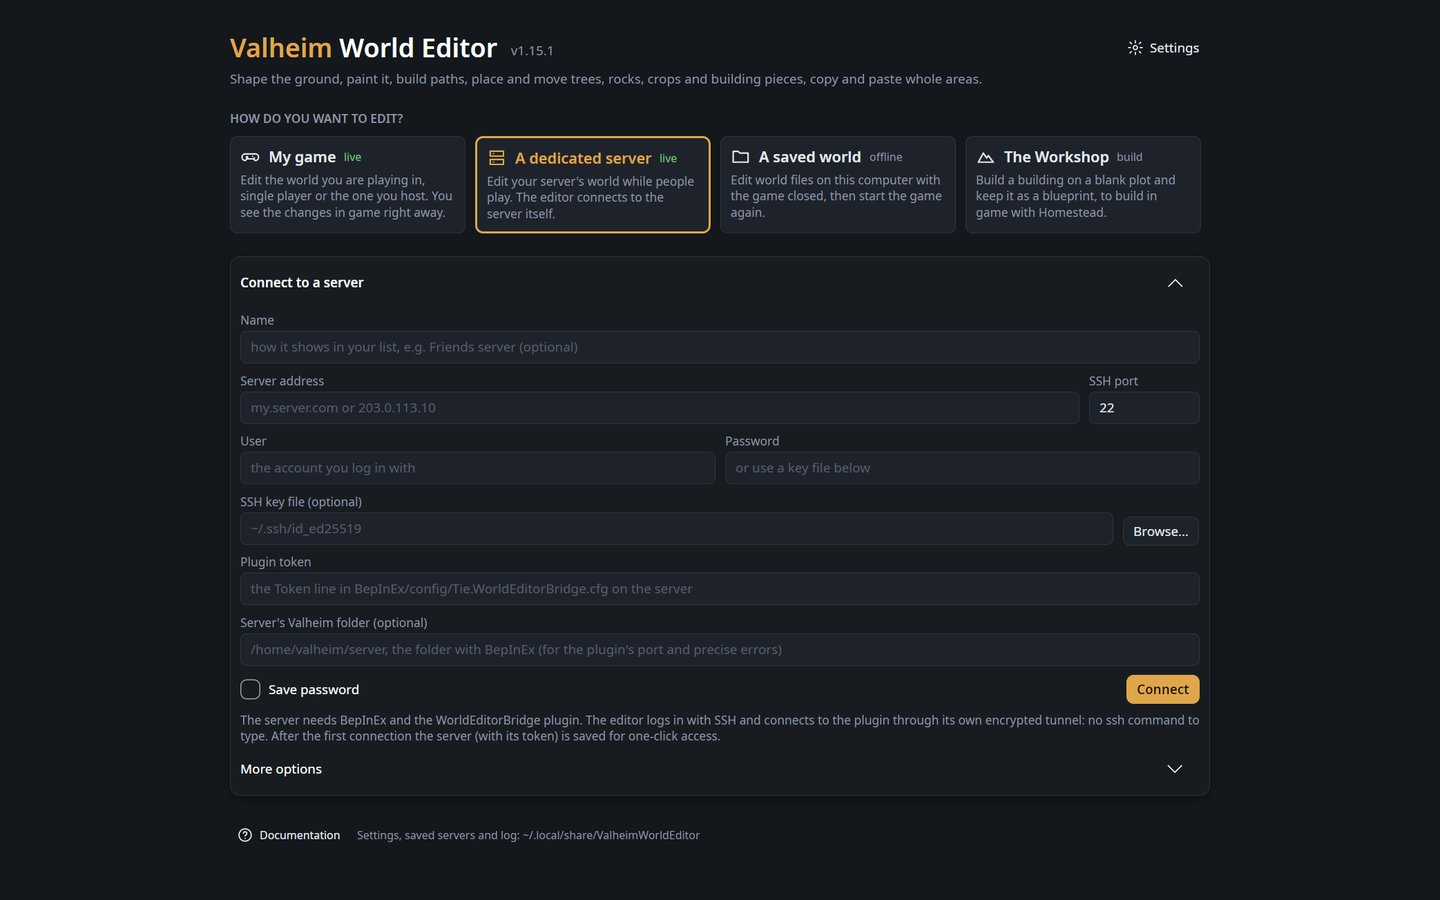
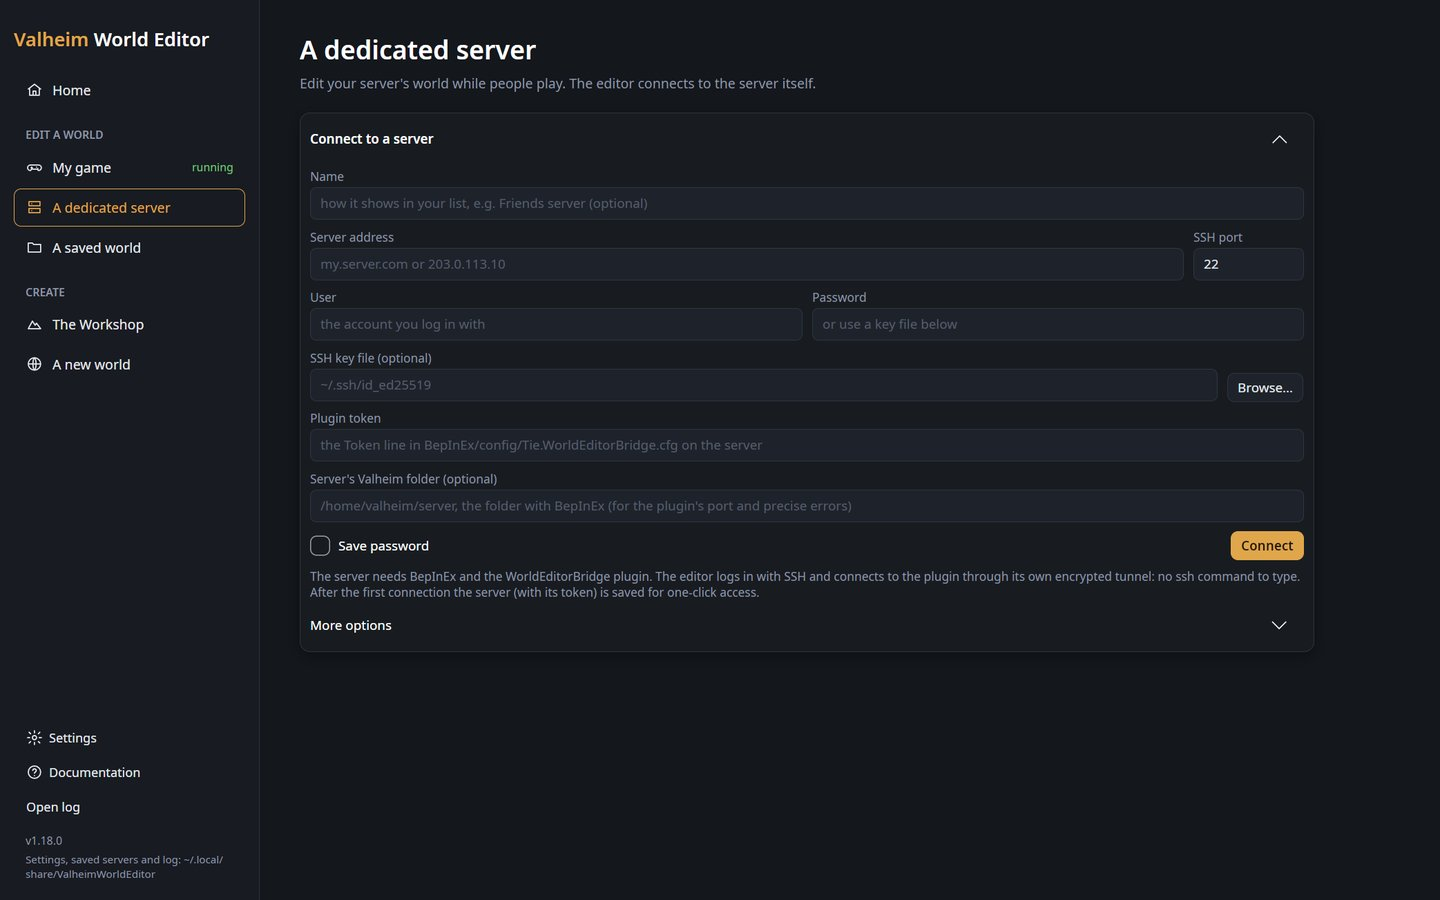
Describe the new start page in the README and docs
The side menu, Home and the Create pages are explained where players start reading, with new
pictures; the screenshot script now shows Home with recent worlds.

diff --git a/tools/docs-screenshots/editor.py b/tools/docs-screenshots/editor.py
@@ -7,6 +7,7 @@ are discarded before the next one.
 """
 import json
 import os
+from datetime import datetime, timedelta
 import shutil
 import subprocess
 import tempfile
@@ -65,7 +66,7 @@ def real_bundles():
 
 
 class Editor:
-    def __init__(self, app=None, width=1440, height=900, game_world=None, worlds=(), homestead=None):
+    def __init__(self, app=None, width=1440, height=900, game_world=None, worlds=(), homestead=None, recent=()):
         self.home = Path(tempfile.mkdtemp(prefix="vwe-docs-home-"))
         self.game = None
         # The stand-in home's own data folder (~/.local/share/ValheimWorldEditor): the start page
@@ -91,6 +92,11 @@ class Editor:
         for w in worlds:
             local.mkdir(parents=True, exist_ok=True)
             (local / Path(w).name).symlink_to(Path(w).resolve())
+        if recent:
+            # Worlds opened before (the start page's Home), the first a few hours ago, then a day apart.
+            now = datetime.now()
+            opened = [{"Path": str(local / Path(w).name), "Name": Path(w).name, "Opened": (now - timedelta(hours=3, days=i)).isoformat()} for i, w in enumerate(recent)]
+            (data / "ValheimWorldEditor" / "settings.json").write_text(json.dumps({"Recent": opened}))
         if game_world:
             # The plugin in an r2modman profile, as on many players' computers.
             self.game = FakeGame(game_world)

diff --git a/tools/docs-screenshots/scenes.py b/tools/docs-screenshots/scenes.py
@@ -564,8 +564,11 @@ def scene_map(e):
 # ---- The start page and its settings (no world opened).
 
 def scene_start(e):
-    e.send("click My game")
+    # Home: the running game (the stand-in plugin) and the worlds opened before.
     e.send("wait 3000")
+    e.shot(OUT / "start-home.jpg")
+    e.send("click My game")
+    e.send("wait 1500")
     e.shot(OUT / "start-game.jpg")
     e.send("click A dedicated server")
     e.shot(OUT / "start-server.jpg")
@@ -593,7 +596,7 @@ def main():
         # Each scene in a fresh editor: nothing carries over, nothing is saved.
         start = name == "start"
         with Editor(game_world="Docs" if start else None, worlds=(f"{DIR}/Docs", f"{DIR}/Fjordheim") if start else (),
-                    homestead=os.environ.get("HOMESTEAD_DLL")) as e:
+                    homestead=os.environ.get("HOMESTEAD_DLL"), recent=(f"{DIR}/Fjordheim", f"{DIR}/Docs") if start else ()) as e:
             try:
                 SCENES[name](e)
             except Exception as ex:

diff --git a/README.md b/README.md
@@ -61,9 +61,24 @@ for Windows or Linux. Unpack it and start it. You don't need to install anything
 - **Undo anything.** The history panel goes back to any point, or takes out one change only. It is
   kept with the world after each save, so you can still undo after closing the editor.
 
-## Three ways to edit
+## The start page
 
-All three start from the editor's start page, under **Edit a world** in its side menu.
+The editor opens on its start page. Its side menu has three parts:
+
+- **Home** picks up where you left off: when Valheim is running with the plugin, a card to
+  **Edit live** its world; then the saved worlds and blueprints you opened last (blueprints with
+  their pictures), and the servers that connect in one click. Click one to open it.
+- **Edit a world**: the three ways to edit, below.
+- **Create**: **The Workshop**, a blank plot to build on and keep as a blueprint, needing no world
+  at all ([docs/workshop.md](docs/workshop.md)); and **A new world**, to choose a seed by what is
+  near its start and make the world ([docs/new-world.md](docs/new-world.md)).
+
+At the bottom of the menu: **Settings**, **Documentation**, **Open log** and the folder of the
+editor's settings and log.
+
+![The start page's Home: the game running, and the worlds opened last](docs/images/start-home.jpg)
+
+## Three ways to edit
 
 | | What it edits | What you need |
 |---|---|---|
@@ -71,12 +86,7 @@ All three start from the editor's start page, under **Edit a world** in its side
 | **A dedicated server** (live) | Your server's world, while people play. The editor logs in over SSH and opens its own encrypted tunnel. | BepInEx and the plugin on the server, and an SSH login to it. |
 | **A saved world** (offline) | World files on this computer, with the game closed. | Nothing. |
 
-Under **Create**, **The Workshop** needs no world at all, and **A new world** makes a new world and
-helps you choose its seed ([docs/new-world.md](docs/new-world.md)). The start page opens on **Home**:
-the game when it runs (to edit it live), the worlds and blueprints you opened last, and the servers
-that connect in one click.
-
-![The start page](docs/images/start-workshop.jpg)
+![The Workshop, under Create on the start page](docs/images/start-workshop.jpg)
 
 One program runs on Windows and Linux, and everything happens on your computer. Nothing is sent
 anywhere else.
@@ -86,8 +96,8 @@ anywhere else.
 1. Download `ValheimWorldEditor-<version>-win-x64.zip` (Windows) or `-linux-x64.tar.gz` (Linux) from
    the [releases page](https://github.com/Shuiei/valheim-world-editor/releases/latest).
 2. Unpack it anywhere and double-click **ValheimWorldEditor**.
-3. Pick a way to edit on the start page. To try it safely, open **A saved world** with the game
-   closed, or **The Workshop**.
+3. Pick a way to edit in the start page's side menu. To try it safely, open **A saved world** with
+   the game closed, or **The Workshop**. Next time, **Home** lists what you opened.
 
 The sections below cover each step in more detail.
 
@@ -117,10 +127,8 @@ Windows it falls back to Direct3D when the driver has no OpenGL).
    editing, the WorldEditorBridge plugin is a separate download: `WorldEditorBridge-<version>.zip`
    on the same page, or from a mod manager (below).
 3. Double-click **ValheimWorldEditor** (`ValheimWorldEditor.exe` on Windows). It opens in its own
-   window, on the start page. (Windows may say "Windows protected your PC" the first time: the
-   program is not signed. Click "More info", then "Run anyway".)
-
-![The start page](docs/images/start-game.jpg)
+   window, on the start page's **Home**. (Windows may say "Windows protected your PC" the first
+   time: the program is not signed. Click "More info", then "Run anyway".)
 
 The editor reads the game's look (textures, models, the terrain and map) straight from your Valheim
 install: nothing is copied. The first time, and after a Valheim update, it reads the game's files for
@@ -152,8 +160,12 @@ from it. The folder can be changed later in **Settings**.
    game to host it). On this first start the plugin writes its settings,
    `BepInEx/config/Tie.WorldEditorBridge.cfg`, with a random token. The editor reads that file, so
    the game has to have started once with the plugin.
-4. On the start page, **My game** shows "Valheim is running with the world …": click **Edit live**.
-   On your own computer it finds the plugin and its token by itself, also in mod manager profiles.
+4. The start page notices the game by itself: **Home** shows "Valheim is running with the world …"
+   (and **My game**, in the menu, says *running*): click **Edit live**. On your own computer it finds
+   the plugin and its token by itself, also in mod manager profiles. Until then, **My game** says
+   what is missing.
+
+![My game on the start page](docs/images/start-game.jpg)
 
 Edit, then **Apply live** (or switch on **Auto** to apply every change right away): you see it in
 game at once, and the game saves it as usual.
@@ -177,7 +189,8 @@ game at once, and the game saves it as usual.
    password again.
 4. **Connect.** The editor logs in, opens its own encrypted tunnel to the plugin and loads the
    world. The plugin only listens on the server itself, so it is never exposed to the internet.
-5. The server is then **saved** in the list, with its token: next time it is one click.
+5. The server is then **saved** in the list, with its token: next time it is one click, here or on
+   **Home** (when its password is saved or it logs in with a key).
 
 If something is wrong, the editor says what: login refused, no answer, wrong token, plugin not
 running on the server, or a server whose identity changed since last time (it refuses to connect
@@ -191,8 +204,8 @@ have your own tunnel (`ssh -L`, PuTTY)? Use **More options → I made my own tun
 
 1. **Close Valheim, or stop the server** that uses the world. A running game saves over the files
    the editor writes.
-2. On the start page, **A saved world**: click the world. Worlds in Valheim's usual folders are listed
-   by themselves; for another one (a copy of a server's world, for example) use **Another world
+2. On the start page, **A saved world**: click the world (the worlds you opened last are on **Home**
+   too). Worlds in Valheim's usual folders are listed by themselves; for another one (a copy of a server's world, for example) use **Another world
    folder** with **Browse…** or by typing it (`<savedir>/worlds_local/<World>` for a server).
 3. Edit, then **Save to world**. The editor writes your changes as the next save and reads them back
    to check them (if they do not read back right, the new files are removed and nothing changed).
@@ -229,14 +242,14 @@ with the server; **edit** next to a saved server changes it. (The token is still
 
 Settings, saved servers (`servers.cfg`), what the editor remembers between runs, blueprints, the
 index of the game's files (`game-index.json`) and a log (`ValheimWorldEditor.log`, a new one each run) are in `~/.local/share/ValheimWorldEditor`
-(Linux) or `%LOCALAPPDATA%\ValheimWorldEditor` (Windows). The bottom of the start page shows the
-folder.
+(Linux) or `%LOCALAPPDATA%\ValheimWorldEditor` (Windows). The bottom of the start page's menu shows
+the folder.
 
 ## Documentation
 
 | Page | Covers |
 |---|---|
-| [Getting around](docs/editor-basics.md) | Camera, top bar, saving, discarding, history, View panel, shortcuts |
+| [Getting around](docs/editor-basics.md) | The start page (Home, Edit a world, Create), camera, top bar, saving, discarding, history, View panel, shortcuts |
 | [World map](docs/map.md) | The overview map and opening an area in 3D |
 | [Ground tools](docs/terrain.md) | Raise, Lower, Flatten, Smooth, Naturalize, Restore, ground paint, No limit (past ±8 m), Mountain |
 | [Path](docs/path.md) | Roads, ramps, rivers, caves and paint along a line |
@@ -301,7 +314,7 @@ of both.
 
 **Something is wrong or missing.**
 [Open an issue](https://github.com/Shuiei/valheim-world-editor/issues) and attach the editor's log:
-**Open log** at the bottom of the start page opens it (`ValheimWorldEditor.log`, started over at
+**Open log** at the bottom of the start page's menu opens it (`ValheimWorldEditor.log`, started over at
 each run, so attach it before starting the editor again).
 
 ## For developers

diff --git a/docs/editor-basics.md b/docs/editor-basics.md
@@ -146,7 +146,7 @@ view is only drawn at full speed while something happens; otherwise a few times 
 
 Everything the editor says also goes to `ValheimWorldEditor.log` in the same folder, each line with
 its time, started over at each run (like the game's `LogOutput.log`). **Open log** at the bottom of
-the start page opens it: attach it when you report a problem.
+the start page's menu opens it: attach it when you report a problem.
 
 | Key | Action |
 |---|---|
@@ -175,3 +175,23 @@ the start page opens it: attach it when you report a problem.
   without a step. To edit there, move the area with the arrows.
 - Villages, the trader and similar locations flatten the ground around them while the game runs;
   the editor's ground already includes it.
+
+## The start page
+
+The editor opens on its start page, and comes back to it from a world's map (**Worlds**) or the
+Workshop (**Start**). Its side menu:
+
+| | What it shows |
+|---|---|
+| **Home** | Where you left off: when Valheim is running with the WorldEditorBridge plugin, its world and **Edit live**; then the saved worlds and blueprints you opened or saved last (blueprints with their pictures), newest first, and the saved servers that connect in one click (password saved, or a key file). Click one to open it. |
+| **My game** | Your game, live: what is missing (BepInEx, the plugin, a first start), or the world it runs with and **Edit live**. *running* shows beside it while the game runs. See [live mode](live-mode.md). |
+| **A dedicated server** | The saved servers (**Connect**, **edit**, **forget**) and the form to connect to another one. See [live mode](live-mode.md#a-dedicated-server). |
+| **A saved world** | The worlds on this computer, to open with the game closed, and **Another world folder**. |
+| **The Workshop** | **Open the Workshop**, whether Homestead is installed, and every blueprint, newest first: click one to open it in the Workshop. See [the Workshop](workshop.md). |
+| **A new world** | **Make a new world**: a seed's world before it exists, and a search for one that suits you. See [a new world](new-world.md). |
+
+At the bottom of the menu: **Settings**, **Documentation** (this documentation, in the browser),
+**Open log**, the version and the folder of the editor's settings and log.
+
+![The start page's Home](images/start-home.jpg)
+

diff --git a/docs/live-mode.md b/docs/live-mode.md
@@ -21,8 +21,9 @@ For single player, or a world you host from the game.
    into `BepInEx/plugins` of your Valheim, or of your mod manager profile.
 3. **Start Valheim** with BepInEx and load your world. The plugin's first start writes its
    settings (`BepInEx/config/Tie.WorldEditorBridge.cfg`, with the token) that the editor reads.
-4. Start page → **My game**. It shows what is missing, or "Valheim is running with the world …"
-   with an **Edit live** button. On your own computer the editor reads the plugin's settings (port
+4. The start page notices the game by itself: **Home** shows "Valheim is running with the world …"
+   with an **Edit live** button, and **My game** in its menu says *running* (before that, **My
+   game** shows what is missing). On your own computer the editor reads the plugin's settings (port
    and token) itself, in the Valheim folder and in r2modman / Thunderstore Mod Manager profiles.
    (For a server the token is always typed; see below.)
 
@@ -41,7 +42,7 @@ the plugin's settings (below).
    server. Its log shows `WorldEditorBridge <version> listening on http://127.0.0.1:5182/`. This
    first start with the plugin writes `BepInEx/config/Tie.WorldEditorBridge.cfg` and its token: until
    the server has started once with the plugin, there is no token to enter.
-2. Start page → **A dedicated server**: the server's address, the user you log in to it with over
+2. Start page → **A dedicated server** (under **Edit a world**): the server's address, the user you log in to it with over
    SSH, the password or an SSH key file (without either, the usual keys in `~/.ssh` are tried), and
    the **plugin token** (the `Token` line of `BepInEx/config/Tie.WorldEditorBridge.cfg` on the
    server). The token is always typed by you: the editor never reads it from the server, so an SSH
